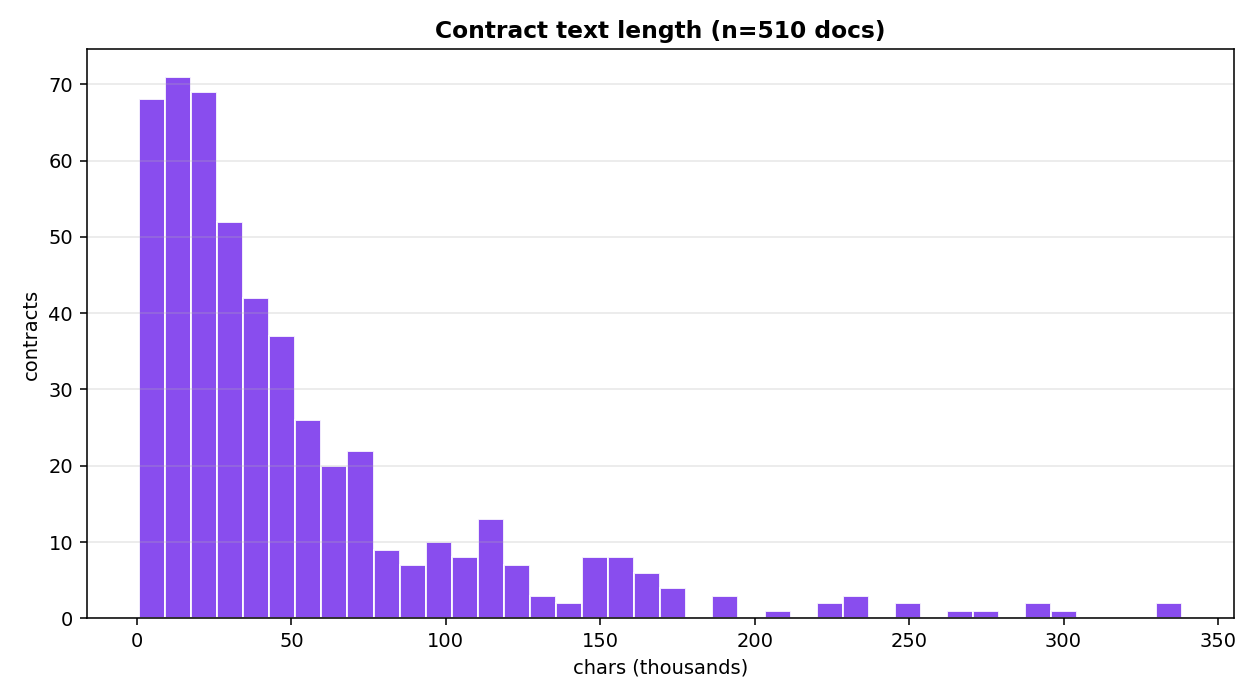
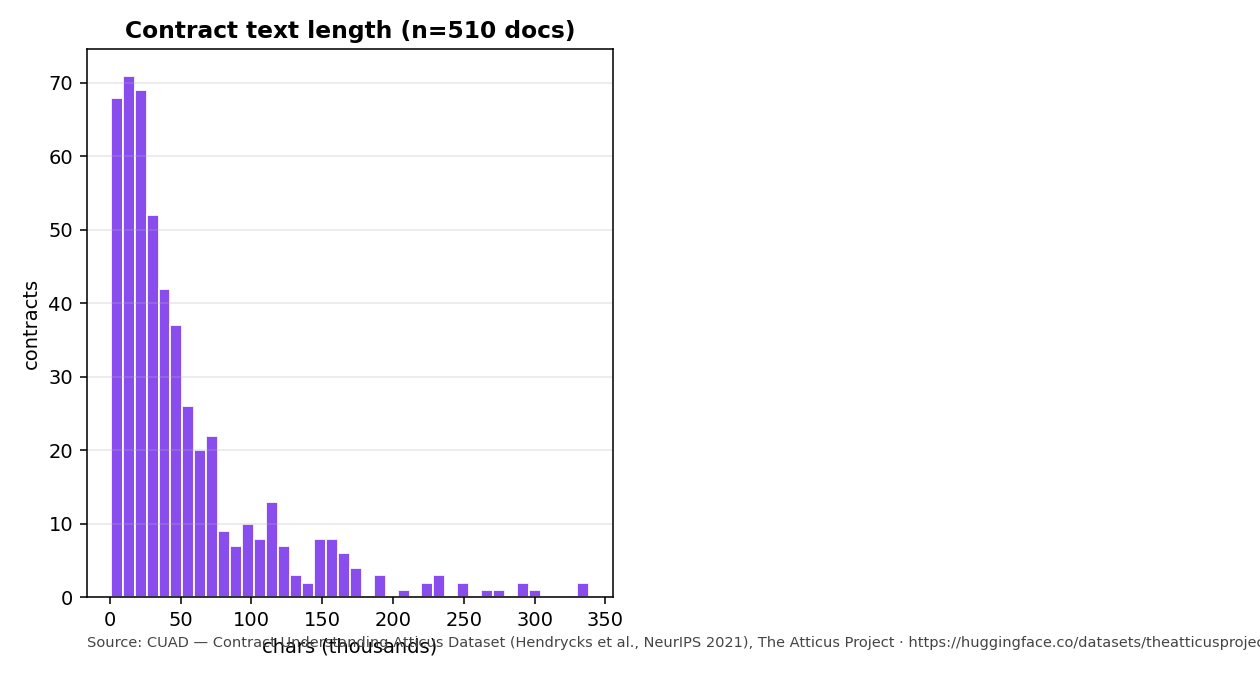
CHORE (KANBAN-014 follow-on): EDA figures 01-10 regenerated with CUAD dataset citations
- explore_cuad.py: _add_citation() footer (CUAD, Hendrycks et al., NeurIPS 2021,
  theatticusproject/cuad) on every figure; figure 01 retitled 'CUAD contract
  subclass distribution (25-family taxonomy, n=509)' + per-bar count labels
- self-contained data paths: CUAD_JSON prefers data/cuad_pdfs/CUAD_v1.json
  (sibling llm-mailroom path as fallback); subtype distribution reads verified
  experiment-log totals (SUBTYPE_FALLBACK, sums to 509) instead of the vanished
  subtype_distribution.json; figure 07 per-subtype lengths computed from
  aligned texts via title-derived 25-family matcher (503/510 matched)
- all 10 figures + data/eda/report.md regenerated (510/510 texts aligned);
  findings.md byte-identical (headline stats unchanged)
- CHANGELOG [Unreleased] entry added

Changed region(s): [[0.0, 0.09, 1.0, 0.96], [0.0929, 0.03, 0.7119, 0.09], [0.031, 0.09, 0.0619, 0.12]]

diff --git a/scripts/eda/explore_cuad.py b/scripts/eda/explore_cuad.py
@@ -35,12 +35,83 @@ matplotlib.use("Agg")
 import matplotlib.pyplot as plt  # noqa: E402
 import numpy as np  # noqa: E402
 
-from src.cuad_ground_truth import CUAD_CATEGORIES  # noqa: E402
+from src.cuad_ground_truth import (  # noqa: E402
+    CUAD_CATEGORIES,
+    SUBTYPE_CUAD_FOLDERS,
+)
+from agents.sorter_agent import CONTRACT_SUBTYPES  # noqa: E402
 
 OUT = Path("data/eda")
 FIG = OUT / "figures"
-CUAD_JSON = Path("../llm-mailroom/data/cuad/CUAD_v1.json")
-SUBTYPE_JSON = Path("../llm-mailroom/data/cuad/subtype_distribution.json")
+# Repo-local corpus paths (`data/cuad_pdfs/` per its README — gitignored),
+# with the llm-mailroom mirror as fallback when the sibling repo is present.
+CUAD_JSON = Path("data/cuad_pdfs/CUAD_v1.json")
+CUAD_JSON_FALLBACK = Path("../llm-mailroom/data/cuad/CUAD_v1.json")
+
+# Dataset citation footer for every figure (KANBAN-014 follow-on).
+CUAD_CITE = ("Source: CUAD — Contract Understanding Atticus Dataset "
+             "(Hendrycks et al., NeurIPS 2021), The Atticus Project · "
+             "https://huggingface.co/datasets/theatticusproject/cuad")
+
+# Title -> 25-family subtype matcher for the per-subtype length stats. Patterns
+# are built from the taxonomy's CUAD folder names (`SUBTYPE_CUAD_FOLDERS`),
+# each family's `CONTRACT_SUBTYPES` label, and observed CUAD title variants;
+# longest match wins so multi-family titles route to the most specific family.
+_SUBTYPE_PATTERNS: dict[str, list[str]] = {}
+for _s in CONTRACT_SUBTYPES:
+    _key, _label = _s["key"], _s["label"]
+    _pats = [p.replace("_", " ") for p in SUBTYPE_CUAD_FOLDERS.get(_key, [])]
+    _pats += [_label]
+    if _key == "ip":
+        _pats += ["Intellectual Property"]
+    if _key == "joint_venture":
+        _pats += ["Joint Filing"]
+    if _key == "collaboration":
+        _pats += ["Cooperation"]
+    if _key == "non_compete_no_solicit":
+        _pats += ["Non-Compete", "No-Solicit", "Non-Disparagement"]
+    _SUBTYPE_PATTERNS[_key] = sorted({p for p in _pats if len(p) >= 6},
+                                     key=len, reverse=True)
+
+
+def _norm_pat(s: str) -> str:
+    return re.sub(r"[^a-z0-9]+", " ", s.lower())
+
+
+def _subtype_from_title(title: str) -> str | None:
+    """Best-effort 25-family subtype for a CUAD title (longest match wins)."""
+    t = _norm_pat(title)
+    best_key, best_len = None, 0
+    for key, pats in _SUBTYPE_PATTERNS.items():
+        for p in pats:
+            np_ = _norm_pat(p)
+            if np_ in t and len(np_) > best_len:
+                best_key, best_len = key, len(np_)
+    return best_key
+
+
+def _add_citation(fig, ax, note: str = "") -> None:
+    """Footer dataset citation on a figure (drawn below the axes)."""
+    txt = CUAD_CITE + (f" · {note}" if note else "")
+    ax.text(0, -0.07, txt, transform=ax.transAxes, fontsize=7.5,
+            color="#444", va="top")
+    fig.tight_layout(rect=[0, 0.03, 1, 1])
+
+# Ground-truth CUAD contract subclass counts (mailroom 25-family taxonomy) for
+# the 509-contract eval corpus (`mailroom-cuad-contracts-full`), derived from
+# the experiment-log per-subtype totals (sums to 509, verified). Used by
+# figure 01 and the report's corpus-composition table — the original
+# taxonomy-derived `subtype_distribution.json` no longer exists in either repo.
+SUBTYPE_FALLBACK = {
+    "maintenance": 34, "license": 33, "distributor": 32,
+    "strategic_alliance": 32, "sponsorship": 31, "development": 28,
+    "service": 28, "collaboration": 26, "endorsement": 24,
+    "joint_venture": 23, "co_branding": 22, "hosting": 20,
+    "outsourcing": 18, "supply": 18, "ip": 17, "manufacturing": 17,
+    "marketing": 17, "franchise": 15, "agency": 13,
+    "transportation": 13, "promotion": 12, "reseller": 12,
+    "consulting": 11, "affiliate": 10, "non_compete_no_solicit": 3,
+}
 
 PALETTE = ["#2563eb", "#7c3aed", "#db2777", "#059669", "#d97706", "#dc2626",
            "#0891b2", "#65a30d", "#9333ea", "#ea580c"]
@@ -68,15 +139,11 @@ BUDGETS = {"25k (small)": 25_000, "90k (chunk window)": 90_000,
 
 
 def _load_cuad() -> list[dict]:
-    if not CUAD_JSON.exists():
-        raise SystemExit(f"CUAD_v1.json not found at {CUAD_JSON}")
-    return json.load(open(CUAD_JSON))["data"]
-
-
-def _load_subtype_dist() -> dict:
-    if not SUBTYPE_JSON.exists():
-        raise SystemExit(f"subtype_distribution.json not found at {SUBTYPE_JSON}")
-    return json.load(open(SUBTYPE_JSON))
+    path = CUAD_JSON if CUAD_JSON.exists() else CUAD_JSON_FALLBACK
+    if not path.exists():
+        raise SystemExit(f"CUAD_v1.json not found at {CUAD_JSON} "
+                         f"(or {CUAD_JSON_FALLBACK})")
+    return json.load(open(path))["data"]
 
 
 def _load_full_texts() -> list[dict]:
@@ -109,7 +176,6 @@ def _category_from_question(q: str) -> str:
 
 def analyze() -> dict:
     docs = _load_cuad()
-    dist = _load_subtype_dist()
     cat_stats: dict[str, dict] = {
         c: {"yes_docs": 0, "answers": 0, "span_len": []} for c in CUAD_CATEGORIES
     }
@@ -206,8 +272,22 @@ def analyze() -> dict:
             denom = min(cat_stats[a]["yes_docs"], cat_stats[b]["yes_docs"])
             coocc_norm[a][b] = coocc[a][b] / denom if denom else 0.0
 
-    # per-subtype length table (median/min/max chars) from the taxonomy file
-    per_subtype = dist.get("per_subtype", {})
+    # per-subtype text-length table (median/min/max chars) from the aligned
+    # texts, grouped by the title-derived 25-family subtype (KANBAN-014
+    # follow-on; replaces the removed taxonomy-JSON dependency).
+    per_subtype_raw: dict[str, list[int]] = {}
+    for i, t in enumerate(texts):
+        sub = _subtype_from_title(titles[i])
+        if sub and t:
+            per_subtype_raw.setdefault(sub, []).append(len(t))
+    per_subtype: dict[str, dict] = {
+        k: {"count": len(v), "median_chars": int(np.median(v)),
+            "min_chars": min(v), "max_chars": max(v)}
+        for k, v in per_subtype_raw.items()
+    }
+    print(f"[info] subtype assigned for "
+          f"{sum(len(v) for v in per_subtype_raw.values())}/{len(docs)} "
+          f"contracts via title matching")
 
     return {
         "n_docs": len(docs), "n_qa": n_qa,
@@ -218,6 +298,7 @@ def analyze() -> dict:
         "redacted_text": redacted_text, "redact_hits": redact_hits,
         "redacted_titles": redacted_titles,
         "coocc": coocc, "coocc_norm": coocc_norm,
+        "subtype_dist": SUBTYPE_FALLBACK,
         "per_subtype": per_subtype,
     }
 
@@ -234,17 +315,22 @@ def make_figures(res: dict) -> None:
                          "axes.titleweight": "bold", "figure.facecolor": "white"})
     n = res["n_docs"]
 
-    # 1. Subtype distribution (from the taxonomy-derived distribution json)
-    dist = _load_subtype_dist()["distribution"]
-    items = sorted(dist.items(), key=lambda kv: -kv[1])
-    names = [k for k, _ in items][:25]
-    vals = [v for _, v in items][:25]
+    # 1. CUAD contract subclass distribution (mailroom 25-family taxonomy)
+    #    Data: ground-truth subtype counts of the 509-contract eval corpus
+    #    (`mailroom-cuad-contracts-full`, experiment-log per-subtype totals).
+    dist = res["subtype_dist"]
+    items = sorted(dist.items(), key=lambda kv: -kv[1])[:25]
+    names = [k for k, _ in items]
+    vals = [v for _, v in items]
     fig, ax = plt.subplots(figsize=(11, 5.5))
     ax.barh(names[::-1], vals[::-1], color=PALETTE[0], edgecolor="white")
-    ax.set_title("Contract subtype distribution (mailroom 25-family taxonomy)")
+    for y, v in enumerate(vals[::-1]):
+        ax.text(v + 0.4, y, str(v), va="center", fontsize=7, color="#333")
+    ax.set_title("CUAD contract subclass distribution "
+                 f"(25-family taxonomy, n={sum(vals)})")
     ax.set_xlabel("contracts")
     ax.grid(axis="x", alpha=0.3)
-    fig.tight_layout()
+    _add_citation(fig, ax, "n=509 contracts in the eval corpus")
     fig.savefig(FIG / "01_subtype_distribution.png", dpi=140)
     plt.close(fig)
 
@@ -257,7 +343,7 @@ def make_figures(res: dict) -> None:
         ax.set_xlabel("chars (thousands)")
         ax.set_ylabel("contracts")
         ax.grid(axis="y", alpha=0.3)
-        fig.tight_layout()
+        _add_citation(fig, ax, "510 contracts · CUAD_v1.json paragraph contexts")
         fig.savefig(FIG / "02_text_length_hist.png", dpi=140)
         plt.close(fig)
 
@@ -272,7 +358,7 @@ def make_figures(res: dict) -> None:
     ax.set_title(f"CUAD category presence rate across {n} contracts (top 24)")
     ax.set_xlabel("share of contracts where the category is labeled YES")
     ax.grid(axis="x", alpha=0.3)
-    fig.tight_layout()
+    _add_citation(fig, ax, "annotator YES labels across the 41 clause categories")
     fig.savefig(FIG / "03_category_yes_rates.png", dpi=140)
     plt.close(fig)
 
@@ -291,7 +377,7 @@ def make_figures(res: dict) -> None:
     ax.set_xlabel("total answer spans")
     ax.set_ylabel("mean span length (chars)")
     ax.grid(alpha=0.3)
-    fig.tight_layout()
+    _add_citation(fig, ax, "20,910 QA pairs · answer-span annotations")
     fig.savefig(FIG / "04_category_spans.png", dpi=140)
     plt.close(fig)
 
@@ -306,7 +392,7 @@ def make_figures(res: dict) -> None:
     ax.set_ylabel("contracts")
     ax.legend()
     ax.grid(axis="y", alpha=0.3)
-    fig.tight_layout()
+    _add_citation(fig, ax, "answer spans per contract · all 41 categories")
     fig.savefig(FIG / "05_spans_per_doc.png", dpi=140)
     plt.close(fig)
 
@@ -321,7 +407,7 @@ def make_figures(res: dict) -> None:
     ax.set_ylabel("contracts")
     ax.tick_params(axis="x", rotation=45)
     ax.grid(axis="y", alpha=0.3)
-    fig.tight_layout()
+    _add_citation(fig, ax, "SEC exhibit tags parsed from the 510 document titles")
     fig.savefig(FIG / "06_filing_types.png", dpi=140)
     plt.close(fig)
 
@@ -344,7 +430,7 @@ def make_figures(res: dict) -> None:
         ax.set_xlabel("chars (thousands)")
         ax.legend(loc="lower right")
         ax.grid(axis="x", alpha=0.3)
-        fig.tight_layout()
+        _add_citation(fig, ax, "title-derived 25-family subtype grouping")
         fig.savefig(FIG / "07_subtype_lengths.png", dpi=140)
         plt.close(fig)
 
@@ -366,7 +452,7 @@ def make_figures(res: dict) -> None:
     ax.set_title("Restriction-family co-occurrence (share of the less-common "
                  "category's docs that also carry the other)")
     fig.colorbar(im, shrink=0.75, label="co-occurrence (normalized)")
-    fig.tight_layout()
+    _add_citation(fig, ax, "10 restriction-family categories · YES-label co-presence")
     fig.savefig(FIG / "08_restriction_cooccurrence.png", dpi=140)
     plt.close(fig)
 
@@ -383,7 +469,7 @@ def make_figures(res: dict) -> None:
         ax.set_xlabel("chars (thousands)")
         ax.set_ylabel("contracts")
         ax.grid(axis="y", alpha=0.3)
-        fig.tight_layout()
+        _add_citation(fig, ax, "pipeline input budgets vs the 510-doc text corpus")
         fig.savefig(FIG / "09_length_budgets.png", dpi=140)
         plt.close(fig)
 
@@ -398,7 +484,7 @@ def make_figures(res: dict) -> None:
         ax.set_xlabel("chars (thousands)")
         ax.set_ylabel("spans per 1k chars")
         ax.grid(alpha=0.3)
-        fig.tight_layout()
+        _add_citation(fig, ax, "span annotations vs text length, per contract")
         fig.savefig(FIG / "10_density_vs_length.png", dpi=140)
         plt.close(fig)
 
@@ -423,7 +509,7 @@ def render_report(res: dict) -> str:
                  f"(~{tk[len(tk)//2]:,} tokens median by chars/4)\n")
 
     L.append("## 1. Corpus composition\n")
-    dist = _load_subtype_dist()["distribution"]
+    dist = res["subtype_dist"]
     L.append("| subtype | contracts | share |\n|---|---|---|")
     for k, v in sorted(dist.items(), key=lambda kv: -kv[1]):
         L.append(f"| `{k}` | {v} | {v/n:.1%} |")

diff --git a/CHANGELOG.md b/CHANGELOG.md
@@ -26,6 +26,7 @@ history of the repository's tags. Format follows
 - **llama-4-scout × contracts_specialist_v31 extraction — cheap model collapses on structured extraction** — full-509 chunked extraction eval on the champion prompt `contracts_specialist_v31` (90k/8k windows, temp 0.1, reasoning none, `--research-funding-key`, manifest `data/manifests/llama4scout_v31_510_chunked_full.jsonl`) with **`meta-llama/llama-4-scout`**: **overall 0.6968 vs the qwen3.7-flash champion 0.8737 = −17.7pp** (509/509, 0 errors, 10.34M tokens). The model is classification-capable (0.888 on the sorter) but collapses on structured extraction: **key_obligations recall 0.259 / exact 0.048** (span-count signed mean −4.06 → under-extraction), **term_length exact 0.078** (date MAE 1,643 days, R² −4.04 → containment collapse), renewal_terms exact 0.292, termination_clauses exact 0.714. Verdict: cost-floor arm only — does NOT approach the champion on extraction. Run `llama-4-scout_contracts_specialist_v31_extraction_langfuse`.
 
 ### Changed
+- **EDA figures regenerated with CUAD dataset citations + self-contained data paths (KANBAN-014 follow-on)** — `scripts/eda/explore_cuad.py` renders a **dataset citation footer on every figure** via a shared `_add_citation()` helper ("Source: CUAD — Contract Understanding Atticus Dataset (Hendrycks et al., NeurIPS 2021), The Atticus Project · huggingface.co/datasets/theatticusproject/cuad" + per-figure source notes), and figure 01 is retitled **"CUAD contract subclass distribution (25-family taxonomy, n=509)"** with per-bar count labels. The script is now **self-contained**: `CUAD_JSON` prefers the repo-local `data/cuad_pdfs/CUAD_v1.json` (gitignored corpus, sibling llm-mailroom path kept as fallback); the subtype distribution (figure 01 + report composition table) reads the **verified experiment-log per-subtype totals** (`SUBTYPE_FALLBACK`, sums to 509) instead of the vanished `subtype_distribution.json`; figure 07's per-subtype text-length stats are computed from the aligned corpus texts grouped by a **title-derived 25-family matcher** (longest-pattern-wins; patterns from `SUBTYPE_CUAD_FOLDERS` + `CONTRACT_SUBTYPES` labels; 503/510 contracts matched). All 10 figures + `data/eda/report.md` regenerated (510/510 texts aligned, 509 from the synced full corpus); `data/eda/findings.md` byte-identical (headline stats unchanged). Requires `data/cuad_pdfs/CUAD_v1.json` (40 MB, `scripts/datasets/download_cuad_pdfs.py`).
 - **Sorter v13 model sweep — complete verified table (7 models, KANBAN-036 reconciliation)** — every model evaluated on the champion `sorter_v13` prompt (full-509, seed 42, temp 0.1, reasoning medium, 509/509 rows, 0 errors), reconciled against `reports/experiment_log.jsonl` with the strict subtype_accuracy + percentile-bootstrap CI: **`deepseek/deepseek-v4-pro` 0.9528** (equiv 0.9548, 24 fails, CI [0.9332, 0.9705]) — the only model to beat the champion; **`qwen/qwen3.7-flash` 0.9430** (champion, 0.9470, 29, [0.9214, 0.9627]); **`deepseek/deepseek-v4-flash` 0.9332** (0.9352, 34, [0.9096, 0.9528]); **`openai/gpt-5-nano` 0.8978** (0.9018, 52, [0.8703, 0.9234]); **`meta-llama/llama-3.3-70b-instruct` 0.8900** (0.9116, 56, [0.8625, 0.9175]); **`meta-llama/llama-4-scout` 0.8880** (0.9077, 57, [0.8605, 0.9136]); **`openai/gpt-4.1-nano` 0.8782** (0.8959, 62, [0.8487, 0.9057]). Corrections vs the earlier per-arm entries: **deepseek-v4-flash canonical is 0.9332** (the clean @06:38 rerun), not 0.9253 (the first @05:44 run — both are clean 509/509, the first is superseded); **llama-4-scout 0.8880 was previously omitted** from the sweep summaries (KANBAN-041's "no llama sorter runs" claim is superseded); **llama-3.3-70b-instruct ran twice** (0.8900 @06:54 → 0.8782 @10:51 duplicate; canonical 0.8900); **gpt-4.1-nano is complete at 0.8782**, not "pending". Cross-model significance is NOT claimed — the ±0.006 noise band was measured on identical-prompt qwen reruns, so a cross-model delta needs its own noise-floor control. The sweep workbook (`reports/sheets/Sorter_Model_Sweep_Results.xlsx`) still needs a regen to cover all 7 models (llama-4-scout + gpt-4.1-nano full-509 are absent).
 - **Eval-run tracing: Langfuse PRIMARY, local Arize Phoenix server as fallback (human directive 2026-08-16)** — new `src/tracing.py::resolve_tracer()` flips the previous Phoenix-first default for all four `run_langfuse_*_eval.py` runners (docclass, subtype, extraction, chained): each run traces to **Langfuse** (llm-dojo project, keys in `langfuse.env`) whenever its keys are configured, and **falls back to the local Phoenix OpenTelemetry server** when Langfuse is unavailable — never silently untraced. The resolver returns `(tracer, tracing_backend, tracing_meta)` so the dry-run label, manifest header, and experiment-log record all report the REAL backend (the manifest/resolver ordering was fixed so the checkpoint header records the resolved backend; previously-hardcoded "langfuse" backends in extraction/chained now resolve dynamically). `prefer="phoenix"` preserves the old order for explicit opt-in. Verified live: full-676 docclass runs trace to llm-dojo (`tracing_backend=langfuse` in the records). Tests `tests/test_tracing.py` (selection order + fallback + record metadata, network-free). Also fixes the langfuse subtype smoke's environment gap (it previously selected Phoenix when PHOENIX_TRACING was unset; the Langfuse-primary default now exercises the stub as intended).
 - **Adaptive eval-runner concurrency + rate-limit retry (speed/efficiency)** — new shared helpers in `src/evaluation.py`: `resolve_concurrency()` scales the worker pool with the sample size (auto = `min(32, max(1, min(8 + ceil(n/25), n)))` — 30 rows → 10 workers, 200 → 16, 676 → 32 — until diminishing returns / provider rate limits; explicit `--max-concurrency N` still wins) and `call_with_rate_limit_retry()` retries transient 429/rate-limit errors with exponential backoff + jitter (KANBAN-024's qwen-via-Alibaba burst shape). Wired into the four `run_langfuse_*_eval.py` runners (docclass, subtype, extraction, chained): `--max-concurrency` defaults to AUTO, the effective worker count + `rate_limit_retries` are recorded in each experiment-log record. 4 new unit tests (`test_resolve_concurrency_*`, `test_rate_limit_retry_*`).

diff --git a/data/eda/report.md b/data/eda/report.md
@@ -10,22 +10,22 @@
 |---|---|---|
 | `maintenance` | 34 | 6.7% |
 | `license` | 33 | 6.5% |
-| `development` | 33 | 6.5% |
 | `distributor` | 32 | 6.3% |
-| `service` | 32 | 6.3% |
 | `strategic_alliance` | 32 | 6.3% |
-| `sponsorship` | 30 | 5.9% |
+| `sponsorship` | 31 | 6.1% |
+| `development` | 28 | 5.5% |
+| `service` | 28 | 5.5% |
 | `collaboration` | 26 | 5.1% |
 | `endorsement` | 24 | 4.7% |
 | `joint_venture` | 23 | 4.5% |
 | `co_branding` | 22 | 4.3% |
-| `hosting` | 19 | 3.7% |
+| `hosting` | 20 | 3.9% |
 | `outsourcing` | 18 | 3.5% |
-| `supply` | 17 | 3.3% |
+| `supply` | 18 | 3.5% |
+| `ip` | 17 | 3.3% |
 | `manufacturing` | 17 | 3.3% |
+| `marketing` | 17 | 3.3% |
 | `franchise` | 15 | 2.9% |
-| `ip` | 15 | 2.9% |
-| `marketing` | 13 | 2.5% |
 | `agency` | 13 | 2.5% |
 | `transportation` | 13 | 2.5% |
 | `promotion` | 12 | 2.4% |
@@ -33,7 +33,6 @@
 | `consulting` | 11 | 2.2% |
 | `affiliate` | 10 | 2.0% |
 | `non_compete_no_solicit` | 3 | 0.6% |
-| `other` | 1 | 0.2% |
 
 ## 2. Filing context
 
@@ -66,29 +65,27 @@
 |---|---|---|---|---|
 | `agency` | 13 | 121,559 | 3,886 | 161,626 |
 | `franchise` | 15 | 116,873 | 2,974 | 300,768 |
-| `promotion` | 12 | 70,383 | 10,553 | 175,580 |
-| `outsourcing` | 18 | 58,860 | 1,952 | 338,211 |
-| `ip` | 15 | 56,509 | 5,046 | 155,463 |
-| `collaboration` | 26 | 54,866 | 2,811 | 335,282 |
-| `transportation` | 13 | 52,008 | 6,088 | 229,670 |
-| `supply` | 17 | 49,915 | 5,713 | 188,674 |
-| `co_branding` | 22 | 47,639 | 857 | 114,759 |
-| `manufacturing` | 17 | 45,846 | 1,742 | 225,094 |
-| `strategic_alliance` | 32 | 45,033 | 5,712 | 122,054 |
-| `reseller` | 12 | 45,002 | 2,935 | 117,478 |
-| `development` | 33 | 43,803 | 6,390 | 291,873 |
-| `hosting` | 19 | 37,351 | 1,660 | 161,066 |
-| `distributor` | 32 | 36,275 | 4,567 | 175,770 |
-| `marketing` | 13 | 34,740 | 17,300 | 221,382 |
-| `maintenance` | 34 | 33,577 | 1,707 | 233,248 |
-| `affiliate` | 10 | 27,015 | 14,083 | 109,014 |
-| `sponsorship` | 30 | 26,753 | 4,066 | 96,662 |
-| `license` | 33 | 25,060 | 1,902 | 159,488 |
-| `endorsement` | 24 | 24,223 | 3,456 | 68,204 |
-| `service` | 32 | 24,151 | 3,860 | 289,615 |
+| `promotion` | 12 | 64,014 | 10,553 | 175,580 |
+| `ip` | 16 | 56,683 | 5,046 | 155,463 |
+| `transportation` | 12 | 50,613 | 6,088 | 229,670 |
+| `collaboration` | 26 | 50,175 | 2,811 | 335,282 |
+| `supply` | 21 | 49,915 | 5,713 | 188,674 |
+| `outsourcing` | 18 | 49,361 | 1,952 | 338,211 |
+| `co_branding` | 23 | 47,639 | 857 | 114,759 |
+| `development` | 30 | 45,029 | 6,390 | 291,873 |
+| `strategic_alliance` | 32 | 42,737 | 5,712 | 122,054 |
+| `manufacturing` | 14 | 41,030 | 1,742 | 225,094 |
+| `marketing` | 18 | 39,906 | 3,558 | 221,382 |
+| `reseller` | 12 | 38,873 | 2,935 | 117,478 |
+| `hosting` | 20 | 36,481 | 1,660 | 161,066 |
+| `distributor` | 31 | 36,275 | 6,320 | 175,770 |
+| `maintenance` | 34 | 32,920 | 1,707 | 233,248 |
+| `affiliate` | 10 | 26,565 | 14,083 | 109,014 |
+| `sponsorship` | 30 | 26,337 | 4,066 | 96,662 |
+| `license` | 31 | 25,060 | 1,902 | 159,488 |
+| `endorsement` | 24 | 22,068 | 3,456 | 68,204 |
+| `service` | 27 | 20,983 | 3,860 | 289,615 |
 | `consulting` | 11 | 20,805 | 12,020 | 33,425 |
-| `non_compete_no_solicit` | 3 | 16,402 | 3,493 | 22,700 |
-| `other` | 1 | 11,770 | 11,770 | 11,770 |
 | `joint_venture` | 23 | 3,971 | 645 | 95,181 |
 
 ## 5. Category presence (annotator YES rates)
